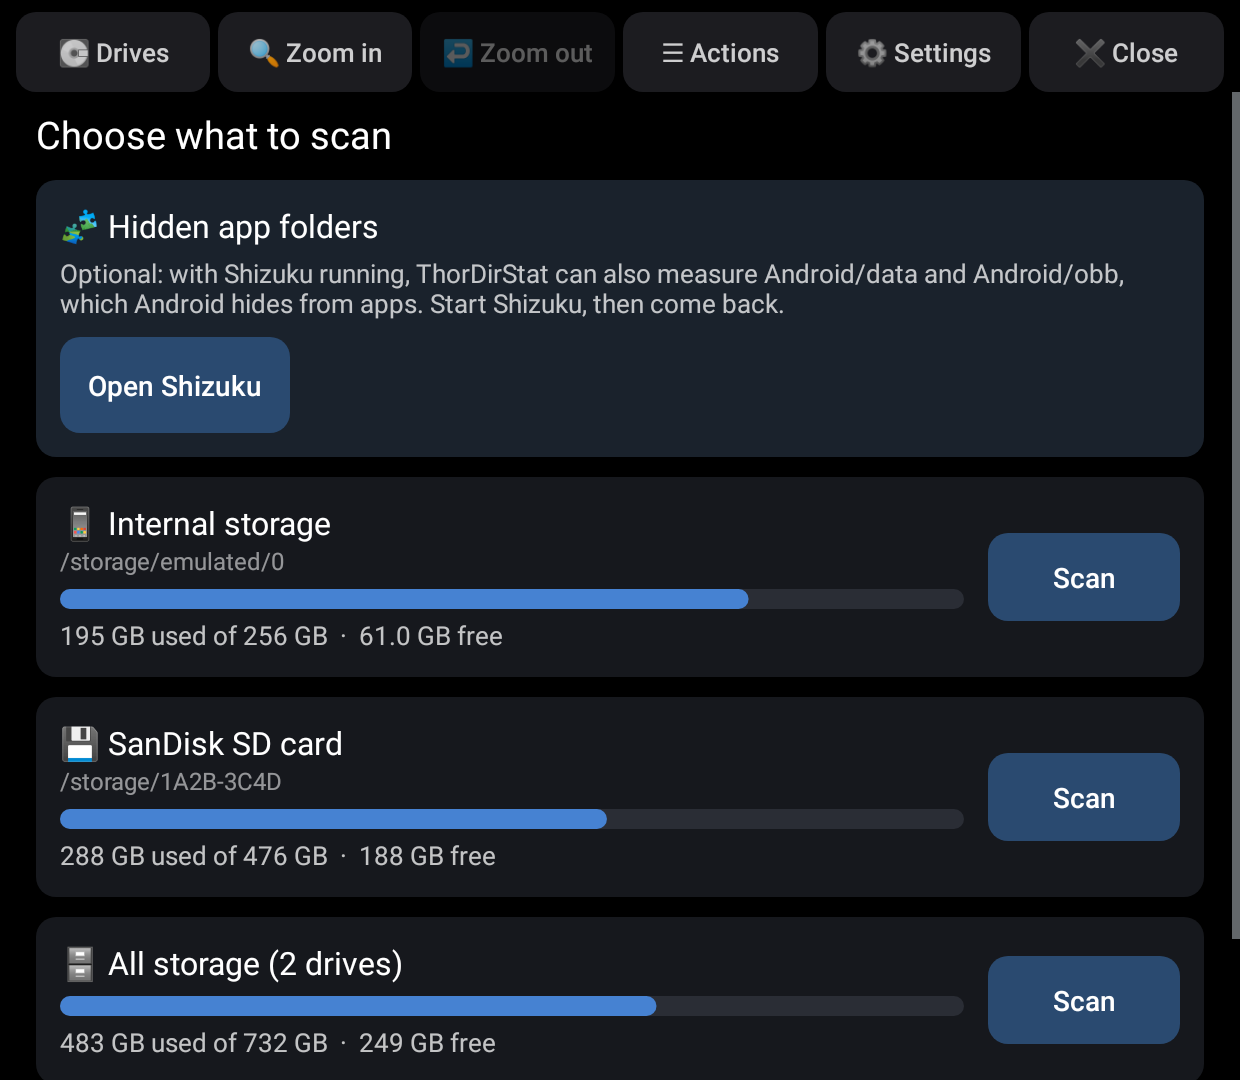
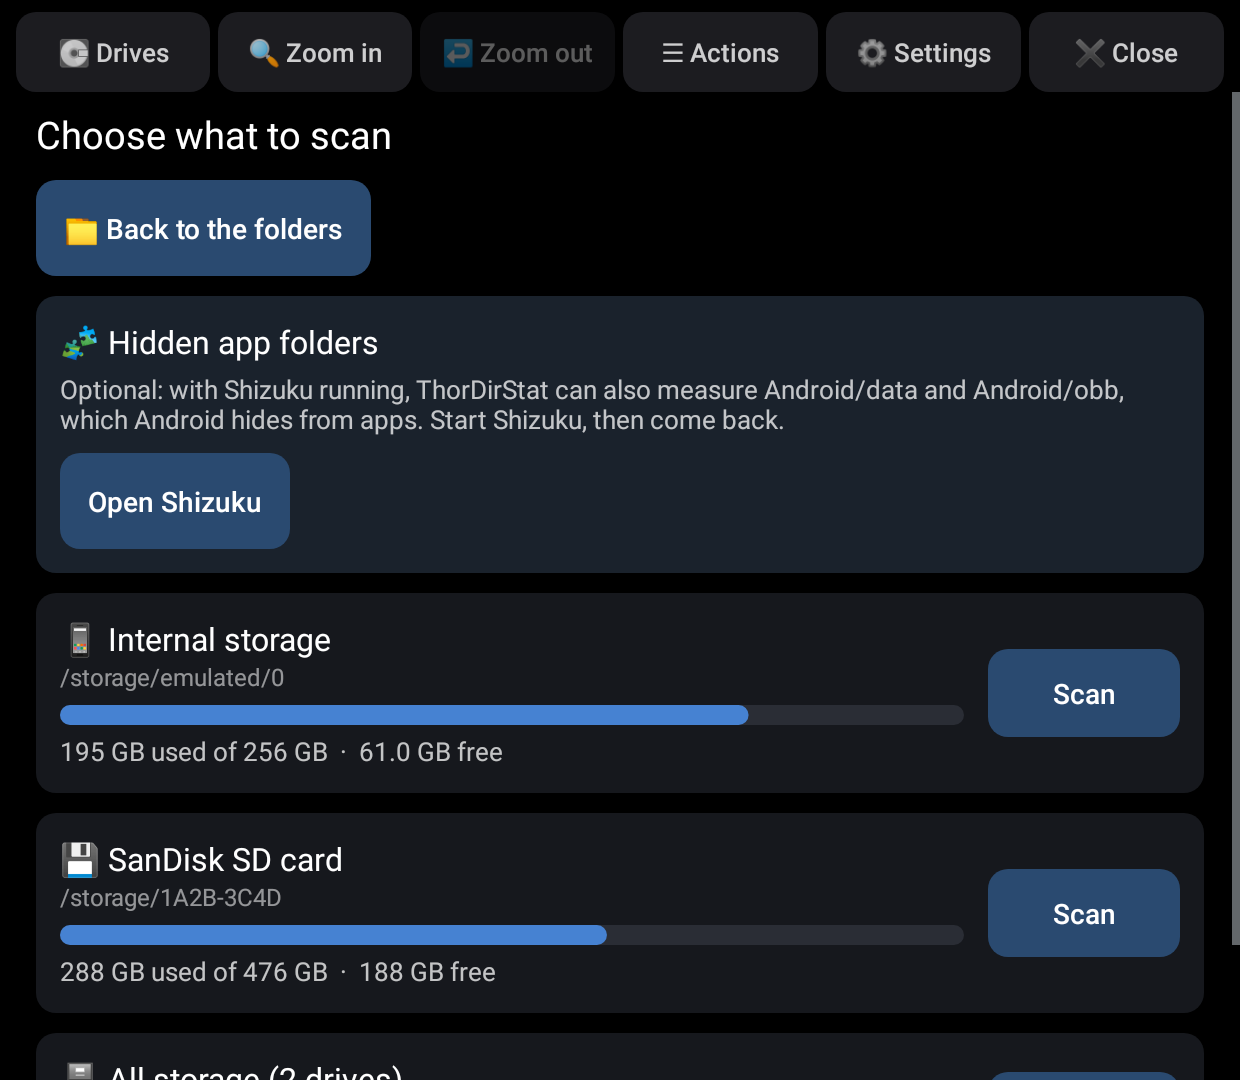
Put Back to the folders at the top of Drives, and let Drives toggle; version 1.3 (#7)
The button sat below every drive, out of view without scrolling.

Claude-Session: https://claude.ai/code/session_01SPxD1eFhPv82d3N8GqCwDv

diff --git a/app/src/main/java/com/thordirstat/MainActivity.java b/app/src/main/java/com/thordirstat/MainActivity.java
@@ -76,7 +76,8 @@ public class MainActivity extends Activity
         bar.setOrientation(LinearLayout.HORIZONTAL);
         bar.setPadding((int) (6 * d), (int) (6 * d), (int) (6 * d), 0);
         bar.addView(barButton("💽 Drives", new View.OnClickListener() {
-            @Override public void onClick(View v) { showDrives(true); }
+            // Tapping Drives again goes back to the results.
+            @Override public void onClick(View v) { showDrives(drivesPanel.getVisibility() != View.VISIBLE); }
         }), weight());
         bar.addView(barButton("🔍 Zoom in", new View.OnClickListener() {
             @Override public void onClick(View v) { zoomIn(); }
@@ -239,6 +240,15 @@ public class MainActivity extends Activity
     private void refreshDrives() {
         drivesList.removeAllViews();
         drivesList.addView(panelText("Choose what to scan", 19, 255));
+        if (Session.get().root() != null) {
+            // At the top, so it's in view without scrolling past the drives.
+            Button back = panelButton("📁 Back to the folders", new View.OnClickListener() {
+                @Override public void onClick(View v) { showDrives(false); }
+            });
+            LinearLayout.LayoutParams lp = new LinearLayout.LayoutParams(ViewGroup.LayoutParams.WRAP_CONTENT, ViewGroup.LayoutParams.WRAP_CONTENT);
+            lp.topMargin = (int) (10 * d);
+            drivesList.addView(back, lp);
+        }
 
         if (!Environment.isExternalStorageManager()) {
             drivesList.addView(card(
@@ -283,14 +293,6 @@ public class MainActivity extends Activity
         }
         if (vols.isEmpty()) drivesList.addView(panelText("No storage found.", 15, 190));
 
-        if (Session.get().root() != null) {
-            Button back = panelButton("Back to the results", new View.OnClickListener() {
-                @Override public void onClick(View v) { showDrives(false); }
-            });
-            LinearLayout.LayoutParams lp = new LinearLayout.LayoutParams(ViewGroup.LayoutParams.WRAP_CONTENT, ViewGroup.LayoutParams.WRAP_CONTENT);
-            lp.topMargin = (int) (14 * d);
-            drivesList.addView(back, lp);
-        }
     }
 
     private View volumeRow(Volumes.Volume v) {

diff --git a/README.md b/README.md
@@ -53,6 +53,7 @@ a Thor will replace them.
 | 🎨 Tap a file type | Outlines every file of that type in the treemap in yellow (tap again to clear) |
 
 The bar along the top has 💽 Drives, 🔍 Zoom in, ↩ Zoom out, ☰ Actions, ⚙ Settings and ✖ Close.
+In 💽 Drives, tap **📁 Back to the folders** (or 💽 Drives again, or Back / **B**) to return to the results.
 
 **Actions** (WinDirStat's right-click menu): zoom the treemap into a folder, zoom out, open a file
 in another app, share it, properties (size, share, files, folders, last change), copy the path,
